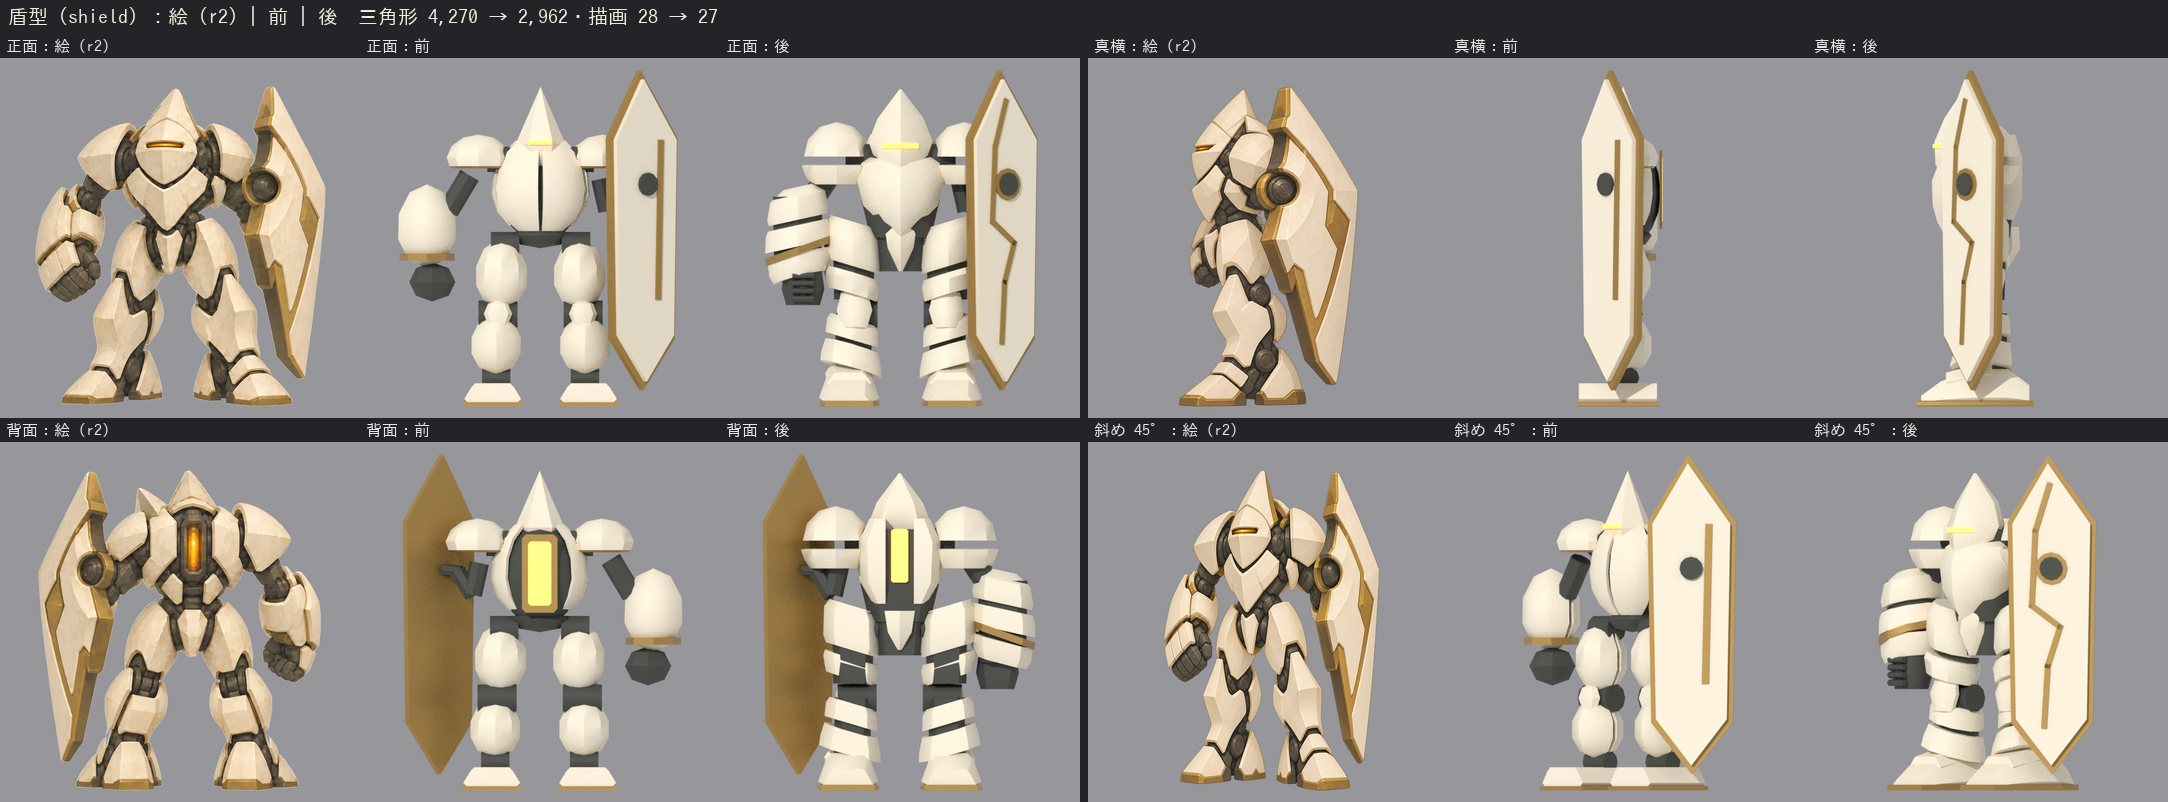
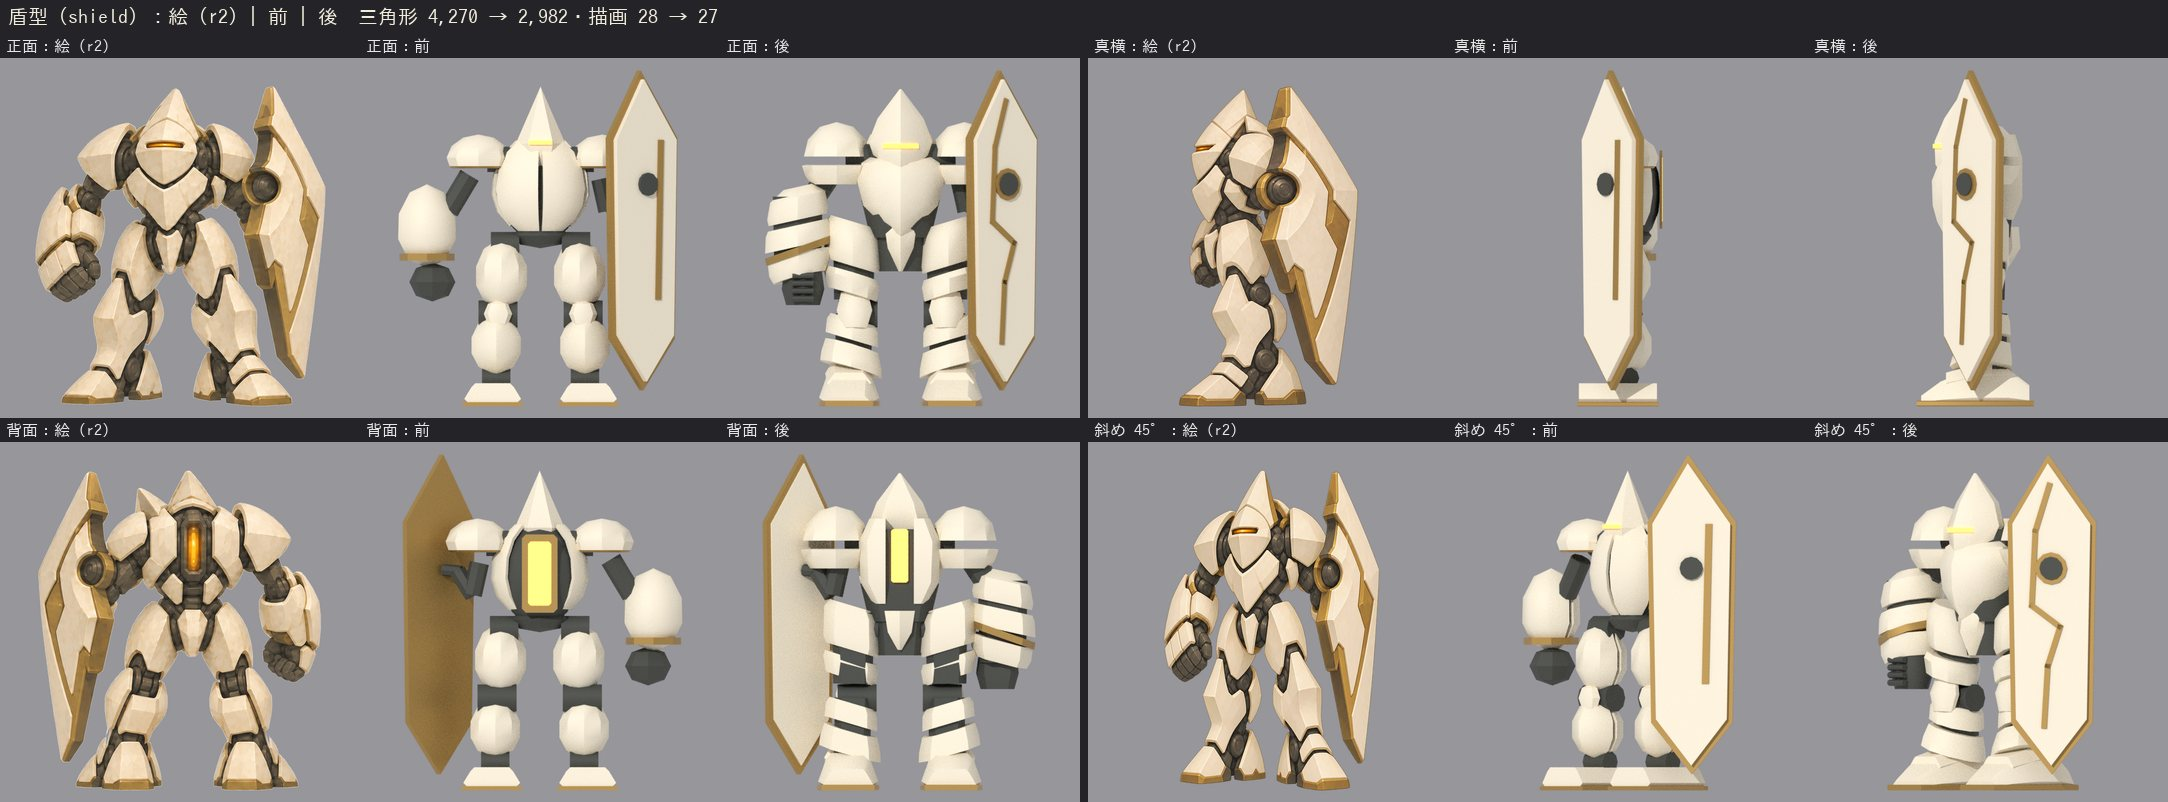
Kannuki nose inside a dark band, viewer notes, results doc and in-game sheets
The boss nose base shrinks from 1.42 to 1.30 m so a graphite band
separates it from the rings. The model viewer rows describe the 3e
pass; the results doc gets section 3e with the per-machine table, the
kept game hooks and the boss size question; in-game before/after
sheets for desktop and phone go to docs/progress_shots/machines/.

Claude-Session: https://claude.ai/code/session_01Bcwddx3BN325aEnzr3cFiU

Changed region(s): [[0.3399, 0.5923, 0.4018, 0.9352]]

diff --git a/tools/model_viewer/index.html b/tools/model_viewer/index.html
@@ -73,12 +73,12 @@ const MODELS = [
   ['tf_clerk', 'ギルドの事務員', '町の住人', '上段の住人。キットの大人の女の体・160cm。着せ替え例 7（赤錆のつば広の帽子・長い髪・赤錆の長い上着・生成りの服）。動作は待機', 'W2_町の住人3D化の結果.md'],
   ['tf_rita', '受付のリタ', '町の住人', 'ギルドの受付。キットの大人の女の体・156cm。着せ替え例 5（子どもの絵の服を大人の体に：生成りのベレー帽・赤毛の 2 つ結び・灰オリーブのベスト・前掛け）。動作は待機', 'W2_町の住人3D化の結果.md'],
   ['practice_gun', '練習銃', '持ち物', 'ハルがスパークを受け取るまで使う、回収屋ギルドの古い訓練用の銃（W2-07b）。全長 25cm。握り・引き金・用心金の内側はスパークと同じ寸法（ハルの右手がそのまま握る）。父の銃スパークはハル（haru_r）の右手に付いている', 'W2_練習銃3D化の結果.md'],
-  ['banki_sentry', '番機・歩哨型', '敵', '動きはゲームの中で付ける', 'W2_番機3D化の結果.md'],
-  ['banki_charger', '番機・突撃型', '敵', '動きはゲームの中で付ける', 'W2_番機3D化の結果.md'],
-  ['banki_mini', '子番機', '敵', '', 'W2_番機3D化の結果.md'],
-  ['banki_shield', '番機・盾型', '敵', '', 'W2_番機3D化の結果.md'],
-  ['banki_floater', '番機・浮遊型', '敵', '', 'W2_番機3D化の結果.md'],
-  ['kannuki', '閂（大番機）', 'ボス', '全長 10m。仮の出来。腕・ドリル・核のふたは部品として動かせる（このページでは閉じた形）', 'W2_番機3D化の結果.md'],
+  ['banki_sentry', '番機・歩哨型', '敵', '高さ 110cm。動きはゲームの中で付ける。2026-10-20 に面の折れ・段の真鍮・角ばった脚（結果の 3e）', 'W2_番機3D化の結果.md'],
+  ['banki_charger', '番機・突撃型', '敵', '全長 200cm。動きはゲームの中で付ける。2026-10-20 に兜形の胴・後ろの羽・前の泥よけ（3e）', 'W2_番機3D化の結果.md'],
+  ['banki_mini', '子番機', '敵', '高さ 30cm。2026-10-20 に外へ張り出す 2 段の角ばった肩の板（3e）', 'W2_番機3D化の結果.md'],
+  ['banki_shield', '番機・盾型', '敵', '高さ 180cm。2026-10-20 に角ばった鎧の板を重ねた手足・凧形の兜・3 段の籠手・稲妻の筋の盾（3e）', 'W2_番機3D化の結果.md'],
+  ['banki_floater', '番機・浮遊型', '敵', '直径 80cm。2026-10-20 に花びら形の葉と上の真鍮の稜・前板・冠のかぶと（3e）', 'W2_番機3D化の結果.md'],
+  ['kannuki', '閂（大番機）', 'ボス', '全長 10m・結束環の直径 3.5m（絵の胴は約 2m。大きさはユーザーの判断待ち）。2026-10-20 に板張りの胴・留め具・配管・ひび・溝と真鍮の帯の削岩錐・濃い琥珀（3e）。腕・ドリル・核のふたは部品として動かせる（このページでは閉じた形）', 'W2_番機3D化の結果.md'],
   ['ordo', '巡礼機オルド', '背景の機械', '全長 400 m・背の歩行面まで 120 m・脚 8 本（肩まで 85 m）。町を背に載せて歩く機械。肩・膝・足首・禁足扉・リフトは部品として動かせる（このページでは 8 本とも接地した停止の姿勢。歩き方はゲームの中で付ける：ordo_view.gd）', 'W2_オルド3D化の結果.md'],
   ['haru_a', 'ハル（以前の試作）', '以前の試作', 'ゲームで F2 を押すと切り替わる版', ''],
   ['kit_ruins_b1', '遺構 B1 のキット', '部屋のキット', '外殻層の部品 30 個（壁・扉・柱・梁・管・手すり・灯・溝の縁の壁の灯・箱・砂・床のケーブル・大型ファン・割れ目など。2 m の格子）。部屋への置き方は docs/design/42_コンテンツの書き方.md 14 章', ''],

diff --git a/tools/blender/recon/kannuki.py b/tools/blender/recon/kannuki.py
@@ -315,12 +315,12 @@ def build_body():
 def build_ends():
     zc = AXIS_Z
     # 3e：前の錐は 8 面の角ばった錐（絵の正面の多面の丸屋根）。上下の稜に真鍮の筋
-    cone = lathe((0, -5.0, zc), (0, -3.7, zc), [(0, 0.3), (0.3, 0.78), (0.7, 1.22), (1, 1.42)], 8)
+    cone = lathe((0, -5.0, zc), (0, -3.7, zc), [(0, 0.3), (0.3, 0.74), (0.7, 1.12), (1, 1.30)], 8)   # 3e：根元を 1.42 → 1.30（環との間に暗い帯）
     tip = lathe((0, -5.08, zc), (0, -4.7, zc), [(0, 0.0), (0.4, 0.22), (1, 0.32)], 8)
-    band = lathe((0, -3.8, zc), (0, -3.68, zc), [(0, 1.44), (1, 1.44)], 16)
+    band = lathe((0, -3.8, zc), (0, -3.68, zc), [(0, 1.33), (1, 1.33)], 16)
     ridges = []
     for sz in (1, -1):
-        prof = [(-4.98, 0.33), (-4.61, 0.79), (-4.09, 1.23), (-3.72, 1.43)]
+        prof = [(-4.98, 0.33), (-4.61, 0.75), (-4.09, 1.13), (-3.72, 1.31)]
         pts = [V3([0.0, y, zc + sz * (r * math.cos(math.pi / 8) + 0.012)]) for y, r in prof]
         rings = []
         for i, q in enumerate(pts):

diff --git a/docs/art_orders/W2_番機3D化の結果.md b/docs/art_orders/W2_番機3D化の結果.md
@@ -193,6 +193,66 @@
     突撃型は箱っぽい。寸法は格子で目で測ったので、数 cm ずれている所がある。
   - 盾型は下書きの段（上）。次は絵の鎧の板（腿・脛の前の板、胸の V の線）を 1 枚ずつ足す。
 
+## 3e. 絵（r2）へ近づける直し：番機 5 種と閂（2026-10-20、ダッシュボード 5 章の B2・K1）
+
+- **やり方**：3d と同じ「寸法から部品で組む」まま、形の道具を足した（`banki_parts.py`）。
+  - `prism`：角ばった鎧の塊。断面は 9 角形（前に稜・横・平らな後ろ）で、軸に沿った断面の列をつなぐ。`tilt` で板の縁を斜めに切る（絵の膝・足首の斜めの継ぎ目）。
+    **黒鉛の芯の上に、隙間を空けて重ねる**と、隙間が絵の暗い継ぎ目になる（3d の「黒鉛の芯＋白磁の板」を、楕円体でなく角ばった板で）。
+  - `zloft`（高さごとの多角形の断面をつなぐ：胸・背中・兜・前垂れ）、`ridge`（面に沿う細い稜：浮遊型の真鍮の筋）、`ell_plate(pfn=…)`（楕円体以外の面の上の板：浮遊型の花びら形の葉）。
+  - 閂（`kannuki.py`）：`sector_prism`（胴の軸のまわりの平らな面の板）、`strip`（面の上の細い線：ひび）、`helix(phase=…)`（2 本目の螺旋）。
+  - 比べの画像は `tools/blender/recon/machine_compare.py`（GLB を読み込み、絵と同じ正投影で Cycles で描く。各方向で絵・前・後の外形の和の箱で切り抜くので、大きさはそのまま比べられる。
+    `--views` で方向、`--fit` で絵の外形の箱をモデルに合わせる＝形だけの比べ）。ゲームの画面は `--vfx_shots=machines`（`vfx_shots.gd` の `machine_steps`）。
+- **ゲームのために変えていないもの**：部品の名前・親子・原点（回転の中心）・軸、撃破で外れる部品（`enemy_view.gd` の `POSE.detach`）、閂の腕・削岩錐・蓋・錠前の板。
+  `fx.gd` が形を前提にしている所（盾型の盾の板の面 `_shield_pt`＝盾の板と縁は前と同じ形、削岩錐の先 `DRILL_TIP` 1.6 m）。
+  材質の役：白磁 `banki_<型>_shell`・`banki_ivory`（被弾の光・撃破の暗さ）、閂の真鍮 `banki_brass`（過熱の珊瑚色）、発光 `sensor`・`core`。描画の数は増やしていない（下の表）。
+  動いたのは盾型のセンサーの原点だけ（兜を前へ出したので、光の付く所を窓の位置 (0, -30.5, 146.5) cm へ。動かない部品）。
+
+| 型 | 変えた所 | 三角形（前 → 後） | 描画（前 → 後） | 比べ |
+|----|---------|-----------------|---------------|------|
+| 盾型 | 腿・脛は 2 段の角ばった板（縁が斜め、内側が低い）＋膝当て、長い楔の靴（底は真鍮）。胸は中央に稜のある 2 枚、背中は核の窓を挟む 2 枚、前垂れ・後ろの垂れ、肩当ては 2 段。兜は凧形（前へ出した）、センサーは稜をまたいで曲がる。籠手は 3 段の板と斜めの真鍮の帯・指の段のある拳。盾は稲妻の真鍮の筋、裏は白磁、留め具の円盤に真鍮の輪 | 4,270 → 2,982 | 28 → 27 | `banki_trial/r3_shield.jpg` |
+| 浮遊型 | 葉は花びら形のレンズ（外ほど広く、先ほど薄い）、上の板は中央の**真鍮の稜**で左右 2 枚（絵の上面の真鍮の筋 3 本）、赤道の真鍮の帯。ハブは黒鉛のこま形、前にセンサーの付いた白磁の前板、冠は前が真鍮の尖った塔と、核の後ろを覆うかぶと、核は丸い琥珀。直径は spec の 80 cm に（前は葉の先まで約 1.1 m） | 7,416 → 7,926 | 17 → 17 | `r3_floater.jpg`（真上を含む） |
+| 突撃型 | 胴の断面を兜形に（上を狭く・面取りを大きく）、後ろの壁を斜めに落とした。横の平らな耳をやめ、後ろの車輪の上の曲面の羽と前の泥よけ（下の縁は真鍮、裏は黒鉛）。核と蓋の所は空けた | 4,476 → 5,076 | 26 → 26 | `r3_charger.jpg` |
+| 子番機 | 平らな楔の肩の板をやめ、外へ斜めに張り出す 2 段の角ばった板（折れ目の稜、付け根に黒鉛の玉）。角の付け根を太く | 4,972 → 5,508 | 21 → 21 | `r3_mini.jpg` |
+| 歩哨型 | 卵の板の面を粗くして面の折れを見せる（陰をなめらかにつなぐ角を 38 → 17 度、`SMOOTH_DEG`）。横の真鍮の帯を縦 4 つの塊に、腿・脛は前に稜のある角ばった板、腰の黒鉛を小さく | 5,350 → 4,038 | 24 → 24 | `r3_sentry.jpg` |
+| 閂 | 下の箇条 | 5,362 → 6,870 | 65 → 65 | `kannuki_trial/r3_kannuki.jpg`（同じ縮尺）・`r3_kannuki_fit.jpg`（形だけ） |
+
+- **閂**：
+  - 胴：滑らかな筒をやめ、黒鉛の芯（半径 1.30 m）の上に長い白磁の板（上の横・下の横・蓋の前後の背）を継ぎ目を空けて貼った。上下の板の継ぎ目に真鍮の帯、板の角に真鍮の留め具 32 個、
+    結束環に暗い切り欠き 16 か所、肩から胴へ入る配管 8 本と横の配管 2 本、板の上のひび 8 本（黒鉛の細い線）。前の錐は 8 面の角ばった錐に、上下の稜に真鍮の筋。
+  - 蓋：箱をやめて楔（核の側が高く、環の側へ下がって細る。絵の真横の台形）。滑る向き・距離は同じ。
+  - 腕：上腕・前腕は前に稜のある角ばった板、上腕に肩当てを重ねた。油圧の棒に筒、軸の真鍮の蓋。
+  - 削岩錐：円すいに**螺旋の溝**（黒鉛の稜）と真鍮の螺旋、**真鍮の帯 3 本**、真鍮の先。回るのが見える（前の滑らかな円すいは回っても動いて見えなかった）。長さ 1.6 m・原点・軸は同じ。
+  - 琥珀：核は六角の宝石（上が面取りで尖る）。**ゲームの色を濃く**：`EnemyView` の閂の核を `BOSS_AMBER` #F59A2A（開くと #FFB040 へ脈打つ）・明るさ 1.0〜4.2 に。
+    前は番機のセンサーと同じ #FFBC52 から淡い黄 (1, 0.9, 0.6) へ・明るさ最大 8.2 で、AgX の色調で白っぽく見えた。GLB の `banki_core` も #F59A2A・発光 1.0（確認ページ用）。
+  - 「細く見せる」：板の外の半径を 1.50 → 1.42 m にした（環の間の胴は 3.0 → 2.84 m）。**結束環（直径 3.5 m）・当たり判定（`bodyRadius` 1.75 m）・腕・全長は変えていない**ので、外形の大きさは同じ。
+    長い横の板と継ぎ目の線で、胴が長く細く見える。
+
+### 閂の大きさ：ユーザーの判断待ち
+
+| | 直径（結束環） | 胴（板） | 腕を畳んだ幅 | 全高 | 長さ |
+|---|---|---|---|---|---|
+| 仕様（spec_kannuki_3d_r2.md） | 3.5 m | — | — | — | 10.0 m |
+| 今のモデル | 3.5 m | 2.84 m | 約 5.6 m | 約 4.4 m | 10.0 m |
+| 絵（166 px/m、真横・真上で全長 10 m に合わせた） | 約 2.2 m（正面の環） | 約 1.9 m | 3.6 m（正面の外形） | 2.7 m（真横） | 10.0 m |
+
+- 絵は胴が細く、腕を胴に沿わせて畳んでいる。spec の直径 3.5 m は「正面の外形の幅 600 px ÷ 全長 1660 px ＝ 0.361」から決めたもので、この幅は**腕を含めた**外形（spec の 43 行目）。
+  胴だけなら絵は約 2 m。
+- 選ぶもの：
+  - **A：仕様のまま（今）**。ボス戦の調整（当たり判定 `bodyRadius` 1.75 m・押し出し・叩きつけ・突進の通り道 3.5 m 幅）はこの大きさで作ってある。
+  - **B：絵に合わせて細く**（環 約 2.4 m・胴 約 2.0 m・畳んだ幅 約 3.6 m）。変える所：`kannuki.py` の `R_PLATE`・`R_CORE`・環・肩の位置（`shoulder_points`）、
+    `tuning` の `boss.bodyRadius`（と押し出し・突進の通り道の幅 `lane` の 3.5 m）、腕の長さと削岩錐の先（`fx.gd` の `DRILL_TIP`）、HUD のロックオンの印の高さ、カメラの距離。
+    小さくなるとプレイヤーとの大きさの差（ハル 1.55 m）が縮み、「大きな機械」の迫力は下がる。
+  - **C：中間**（環 3.0 m）。
+- 遊んでから決める（ボス戦の調整がユーザーのプレイを待っているため、今回は A のまま）。
+
+- **残り（目立つ順）**：
+  - 閂：腕を畳んだ姿勢が絵（胴に沿って後ろへ畳み、削岩錐が下を向く）と違う。絵の細かい留め具（ボルトの列）・鎖・環の刻み線の多くは省いた。正面の環の内側の多面の丸屋根は絵ほど段が無い。
+  - 盾型：絵より黒鉛の継ぎ目が細い（隙間 3〜4 cm）。脚の開き（絵は A の字）と靴の大きさは控えめ。盾の向き・位置は `fx.gd` の亀裂の点のため前のまま（絵の真横の盾は体の後ろ寄り）。
+  - 浮遊型：絵どうしが食い違う（真横の絵は前後にも葉がある）。正面・真上に合わせた。冠の塔は真上の絵には無い。
+  - 突撃型：絵の長い羽のような重ね板（後ろへ流れる 3〜4 枚）は 1 枚の曲面の羽で代えた。懸架の黒い腕が正面から見える。真上は絵より羽が丸い。
+  - 子番機：角が肩の板と一体ではない（別の部品のまま。動く部品のため）。
+  - 歩哨型：卵の上が絵ほど尖らない。面の折れは光の当たり方で見えるだけで、線は無い。
+
 ## 4. かかった時間と手間
 
 - 約 0.8 時間（絵の確認と格子の画像での測定 10 分 → 1 周目の 5 種の形・色・比較 15 分 → Godot の組み込みと確認の画像 10 分 →
